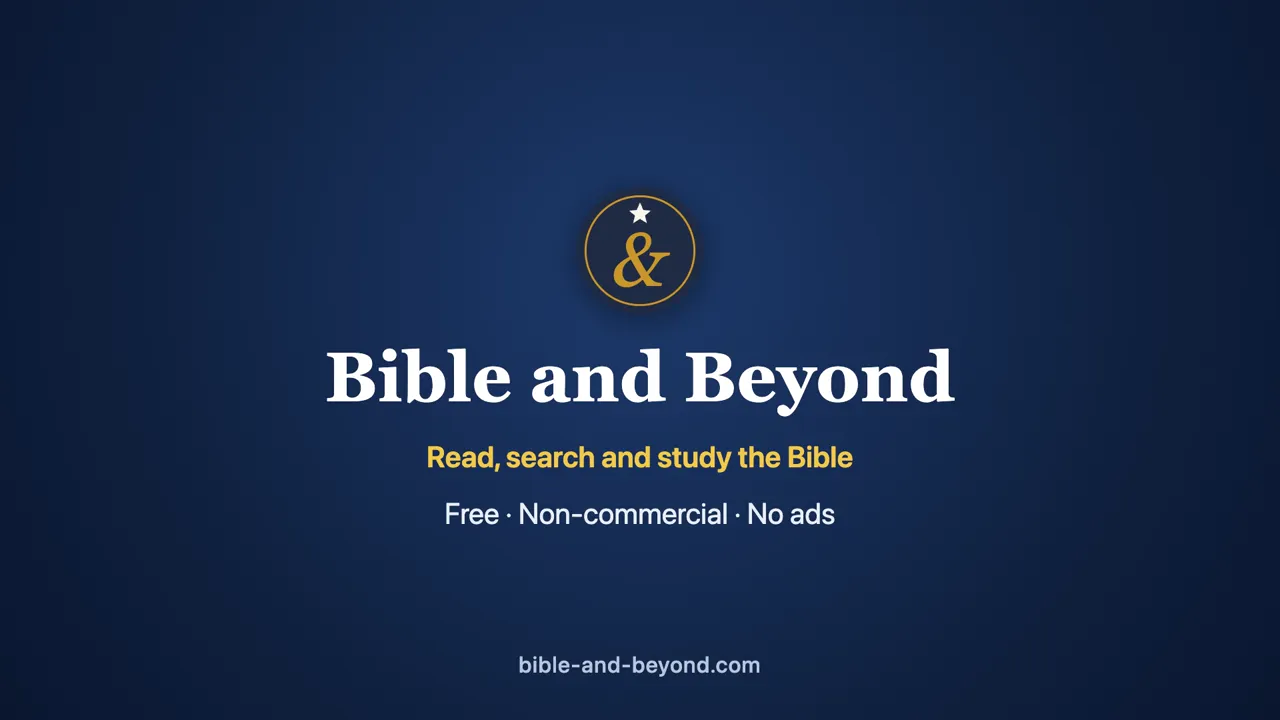
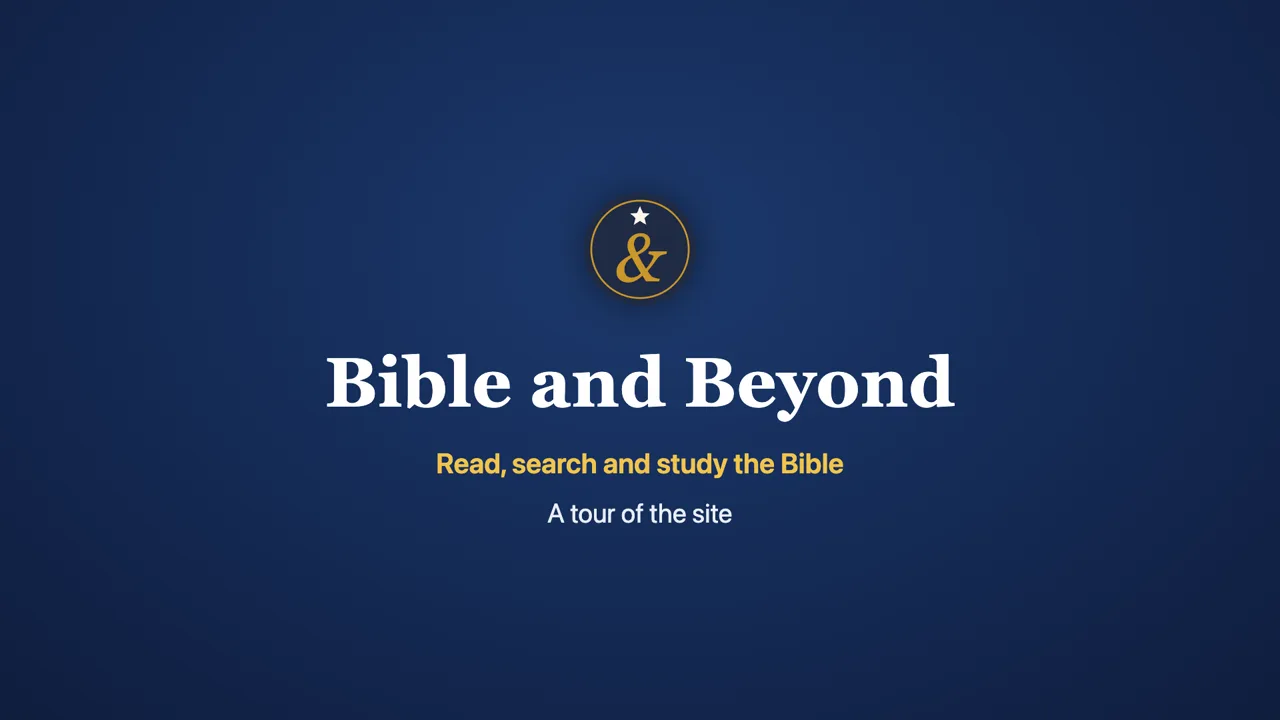
Remake the tutorial video, unhurried and with the new features
The tour is now 9 min 38 s: each sentence starts when the screen reaches what
it describes, with pauses, a visible pointer and reading-speed typing. It adds
Search Options, the Internet Archive search, the owner's FAQ notes, playlists,
AI search by meaning and Conversations. New captions and poster; the page text
describes the new tour. The video file itself is copied to the server by hand.

diff --git a/frontend/src/TutorialPage.tsx b/frontend/src/TutorialPage.tsx
@@ -4,16 +4,17 @@ interface TutorialPageProps {
   onNavigate: (view: View) => void
 }
 
-// The narrated tour of the site, a 7-minute video. The video file is too large for git: it lives in
+// The narrated tour of the site, a video of about ten minutes (remade 2026-11-12). The video file is too large for git: it lives in
 // public/tutorial/ on the server only (see "Tutorial video" in CLAUDE.md). The poster and captions are committed.
 function TutorialPage({ onNavigate }: TutorialPageProps) {
   return (
     <div className="welcome tutorial-page">
       <h1>Tutorial video</h1>
       <p>
-        A seven-minute tour of Bible and Beyond: reading and searching the Bible, the commentaries, the devotionals,
-        the other books, the music, the FAQ, and what a free account adds. Press play to start; the button at the
-        bottom right shows it full screen, and CC turns the captions on or off.
+        A ten-minute tour of Bible and Beyond: reading and searching the Bible, the commentaries, the devotionals,
+        the other books and the music, searching the Internet Archive, the FAQ, and what a free account adds: notes,
+        daily emails, playlists, and on request AI search, your own questions and Conversations. Press play to start;
+        the button at the bottom right shows it full screen, and CC turns the captions on or off.
       </p>
       <video
         className="tutorial-video"

diff --git a/CLAUDE.md b/CLAUDE.md
@@ -355,6 +355,7 @@ A web app that answers Bible questions using AI/ML.
 - The old Network Solutions hosting service on this domain is no longer used and expires 2026-12-06; cancel it if it is not needed.
 
 ## Tutorial video
-- Page `/tutorial` (`TutorialPage.tsx`, "Tutorial video" in the sidebar under Help; the Help page links to it too; added 2026-11-11). A 7-minute narrated tour (Ava (Premium) voice from macOS `say`, captions in `public/tutorial/bible-and-beyond-feature-tour.en.vtt`, poster `poster.webp`).
+- Page `/tutorial` (`TutorialPage.tsx`, "Tutorial video" in the sidebar under Help; the Help page links to it too; added 2026-11-11, **remade 2026-11-12** at the owner's request because the first felt rushed). A 9 min 38 s narrated tour (Ava (Premium) voice from macOS `say` at rate 165, captions in `public/tutorial/bible-and-beyond-feature-tour.en.vtt`, one per sentence, poster `poster.webp` from the opening card). It covers the welcome page, the Bible reader (verse menu, a word's Hebrew or Greek), Bible search with Search Options and filters, Search everything, the commentaries and their search, devotionals, other books and their search, the Apostles' Creed, music, the Internet Archive search, the FAQ (with an owner's note), then a free account (setting one up, notes, daily emails, playlists), then what the administrator turns on (AI search by verses and by meaning, your own question, Conversations), and Help.
+- **Pacing (the owner asked for it unhurried):** each sentence starts where the recording reaches the action it describes, never before the previous sentence has ended plus 0.8 s; each clip holds 2 s after its last sentence; a visible pointer glides to each control before using it; typing at reading speed; smooth scrolling; waits for Gemini and the Internet Archive are cut out. The "ask your own question" section is from an earlier recording, paced the old way, because Gemini was overloaded during the remake.
 - **The video file is not in git** (about 50 MB; `frontend/public/tutorial/*.mp4` is ignored). Copy it to the server by hand, then build: `scp frontend/public/tutorial/bible-and-beyond-feature-tour.mp4 bible-and-beyond:bible-and-beyond.com/frontend/public/tutorial/` and `deploy/deploy.sh` (or `--all` if nothing in `frontend/` changed, so the build copies it into `dist`). nginx serves it as a plain file (range requests work, so it can be skipped through).
-- The source clips, the narration script (`narration-script.txt`) and the per-section voice files are in the owner's Documents, "Bible and Beyond - Feature Tour clips". To change a line: edit the script, regenerate that section's voice with `say -v "Ava (Premium)"`, rebuild the video and the captions, and copy the new file up.
+- **The sources** are in the owner's Documents, "Bible and Beyond - Feature Tour 2026-11-12" (its README says how to remake it): the narration script, per-sentence voice files and `timings.json`, the recorder (`tour.mjs`, `recorder.mjs`: Chrome's screencast frames at 1920x1080 from a 1440x810 window at 4/3 scale), the clips with their cue times, the title cards, and `assemble.py`. The first tour's sources stay in "Bible and Beyond - Feature Tour clips". Pitfalls met while recording: the readers' choosers follow the chapter at the top of the screen and load the chapter before when near the top (so start a reader section already at its chapter, never scroll to the sticky choosers, and scroll in relative steps); text inside a closed `<details>` still has a position in Chrome (use `checkVisibility()`); every page stays mounted, so pick visible elements only.
